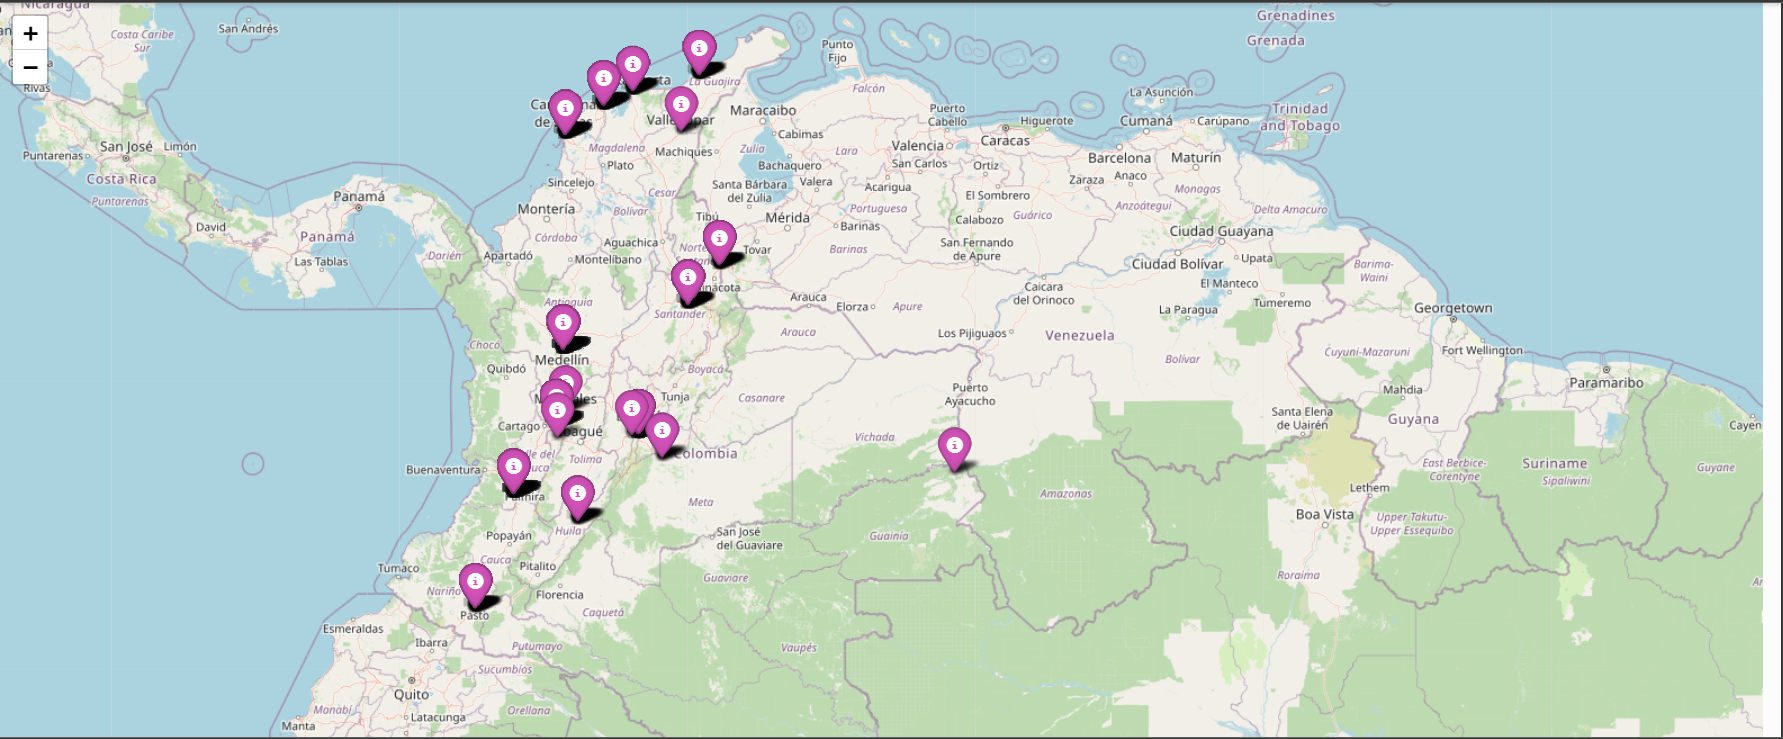
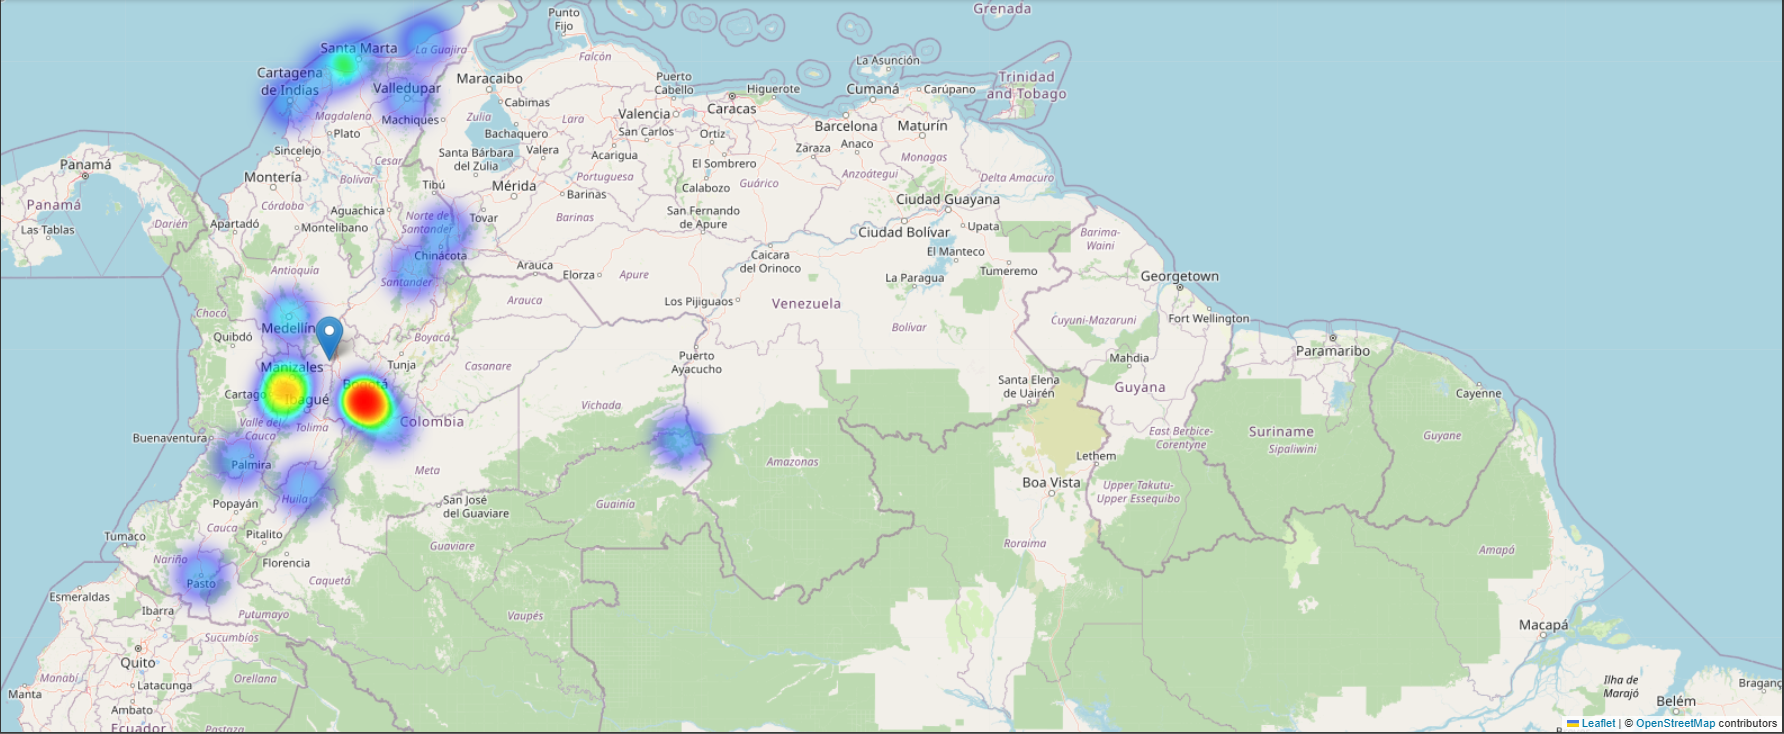
update files and readme

diff --git a/README.md b/README.md
@@ -96,22 +96,36 @@ Este gráfico muestra el costo promedio de envío por tienda.
 - Tienda 2 tiene una calificación excelente (4.04) y su ingreso total es relativamente alto. Su costo de envío está en el promedio, pero no es tan eficiente como el de Tienda 4. Tiene una buena relación entre productos más vendidos y menos vendidos.
 
 ### Recomendación:
-Si el objetivo es vender la tienda menos eficiente, la Tienda 4 es la más adecuada para ello, debido a su bajo ingreso total y su rendimiento inferior en comparación con las otras tiendas. Aunque tiene el costo de envío más bajo, su bajo ingreso podría ser indicativo de una tienda menos competitiva.
 
+Si el objetivo es vender la tienda menos eficiente, **la Tienda 4** es la más adecuada para ello, debido a su bajo ingreso total y su rendimiento inferior en comparación con las otras tiendas. Aunque tiene el costo de envío más bajo, su bajo ingreso podría ser indicativo de una tienda menos competitiva.
 
 ## Extra
-
-Esta actividad es un extra, por lo tanto es OPCIONAL.
 
 En este extra, tendrás el desafío de explorar las coordenadas geográficas de los datos de ventas e identificar patrones relacionados con la ubicación de las compras. Al utilizar las columnas de latitud y longitud, puede generar visualizaciones para comprender cómo varían las ventas según la ubicación geográfica.
 
 ### Desafío:
 
 - Utilice los datos de latitud (lat) y longitud (lon) para mapear las ventas de cada tienda y analizar la distribución geográfica de los productos vendidos.
-![]()
+**Distribución geográfica Tienda 1**
+![](https://github.com/klintfox/one-alura-store/blob/main/captures/eg1.PNG)
+
+**Distribución geográfica Tienda 2**
+
+**Distribución geográfica Tienda 3**
+
+**Distribución geográfica Tienda 4**
+
 - Genere gráficos de dispersión o mapas de calor (Heatmaps) para visualizar datos e identificar áreas con la mayor concentración de ventas.
-![]()
+
+**Mapa de Calor**
+![](https://github.com/klintfox/one-alura-store/blob/main/captures/eg2.PNG)
+
+**Gráficos de dispersion** 
+![](https://github.com/klintfox/one-alura-store/blob/main/captures/eg3_1.PNG)
+![](https://github.com/klintfox/one-alura-store/blob/main/captures/eg3_2.PNG)
+
 - Explore si algunas tiendas tienen un rendimiento superior o inferior al esperado en determinadas regiones e identifique si existen patrones geográficos que puedan influir en el rendimiento de las tiendas.
+
 
 ### Sugerencias:
 
